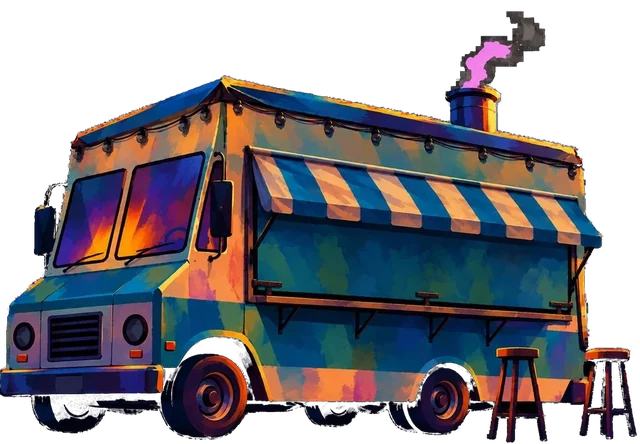
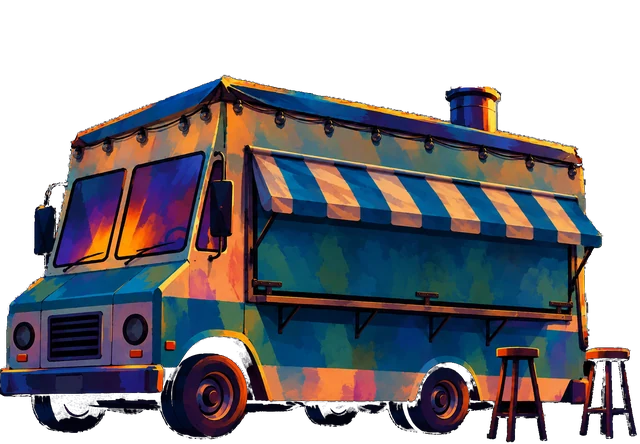
Bloomscroll: smaller truck set further back, market in its daytime spot, oven fire
The food truck moves back behind the concert crowd and scales to that
depth in both modes. At night the market stays in its daytime spot,
and its lights and the van's lights are drawn at the prop's own depth,
so hidden bulbs no longer glow through the stage or the tents. The
queue stands at the van's hatch at the van's depth. The closed truck
loses its smoke, and the pizza oven gets a small flickering fire with
rising embers.

diff --git a/components/feed/BloomscrollScene.js b/components/feed/BloomscrollScene.js
@@ -65,12 +65,12 @@ const PROP_LIGHTS = {
   },
   van: {
     bulbs: [[0.06,0.219],[0.114,0.242],[0.172,0.254],[0.226,0.254],[0.263,0.249],[0.323,0.235],[0.389,0.209],[0.457,0.176]],
-    lamps: [[0.26,0.445]], fires: [[0.44,0.5]],
+    lamps: [[0.26,0.445]], fires: [[0.452,0.52]], ovens: [[0.452,0.565,0.095]],
   },
 }
 const SUN_AT = { wide: [0.5395, 0.5715, 0.07], phone: [0.56, 0.72, 0.186] }
 const SUNSET_HAZE = 0.35
-const PROP_GLOW = { bulb: 0.3, lamp: 0.6, fire: 0.75 }
+const PROP_GLOW = { bulb: 0.3, lamp: 0.6, fire: 0.75, pad: 0.4 }
 
 const LIFE = {
   phone: {
@@ -191,15 +191,71 @@ export default function BloomscrollScene({ children, flowers = "normal", colour 
       })
     }
 
-    const propBox = new Map()
+    const propGlows = [...root.querySelectorAll("[data-glow]")].map((cv) => ({ cv, ctx: cv.getContext("2d"), el: props.find((el) => el.dataset.prop === cv.dataset.glow), box: null }))
     function measureProps() {
-      propBox.clear()
-      const bw = backdrop.clientWidth, bh = backdrop.clientHeight
-      props.forEach((el) => {
-        if (!PROP_LIGHTS[el.dataset.prop] || !el.hasAttribute("data-on") || !el.offsetWidth) return
-        const shift = parseFloat(el.style.translate) || 0
-        propBox.set(el.dataset.prop, { u: (el.offsetLeft - el.offsetWidth / 2 + shift) / bw, v: el.offsetTop / bh, uw: el.offsetWidth / bw, vh: el.offsetHeight / bh })
+      const dpr = Math.min(devicePixelRatio || 1, 2)
+      propGlows.forEach((g) => {
+        const { cv, el } = g, on = el.hasAttribute("data-on") && el.offsetWidth > 0
+        cv.toggleAttribute("data-on", on)
+        g.box = null
+        if (!on) return
+        const w = el.offsetWidth, h = el.offsetHeight, pad = h * PROP_GLOW.pad
+        const left = el.offsetLeft - w / 2 + (parseFloat(el.style.translate) || 0) - pad, top = el.offsetTop - pad
+        Object.assign(cv.style, { left: left + "px", top: top + "px", width: w + pad * 2 + "px", height: h + pad * 2 + "px" })
+        cv.width = Math.round((w + pad * 2) * dpr)
+        cv.height = Math.round((h + pad * 2) * dpr)
+        g.box = { x: pad * dpr, y: pad * dpr, w: w * dpr, h: h * dpr }
       })
+    }
+
+    const ovenEmbers = []
+    let ovenLast = 0
+    function drawOven(c, x, base, mw, t, dt, appear) {
+      const fR = mw * 0.32
+      for (const [k, [off, hgt, wid]] of [[0, 1.6, 0.55], [-0.45, 1.1, 0.36], [0.45, 1.15, 0.36]].entries()) {
+        const sway = Math.sin(t / (160 + k * 37) + k) * fR * 0.2 + Math.sin(t / 67 + k * 3) * fR * 0.07
+        const h = fR * hgt * (0.8 + 0.2 * Math.sin(t / (85 + k * 23) + k * 1.3)), w = fR * wid, bx = x + off * fR
+        const g = c.createLinearGradient(bx, base, bx, base - h)
+        flameStops.forEach(([at, colour]) => g.addColorStop(at, colour))
+        c.globalAlpha = 0.55 * appear
+        c.fillStyle = g
+        c.beginPath()
+        c.moveTo(bx - w, base)
+        c.bezierCurveTo(bx - w * 1.1, base - h * 0.45, bx + sway - w * 0.4, base - h * 0.7, bx + sway, base - h)
+        c.bezierCurveTo(bx + sway + w * 0.4, base - h * 0.7, bx + w * 1.1, base - h * 0.45, bx + w, base)
+        c.closePath()
+        c.fill()
+      }
+      if (Math.random() < dt * 7) ovenEmbers.push({ x: x + (Math.random() - 0.5) * mw * 0.6, y: base - mw * 0.05, vx: (Math.random() - 0.5) * mw * 0.15, vy: -mw * (0.3 + Math.random() * 0.25), life: 1 })
+      for (let i = ovenEmbers.length - 1; i >= 0; i--) {
+        const e = ovenEmbers[i]
+        e.x += (e.vx + Math.sin(t / 240 + i) * mw * 0.08) * dt
+        e.y += e.vy * dt
+        e.life -= dt * 0.9
+        if (e.life <= 0) { ovenEmbers.splice(i, 1); continue }
+        c.globalAlpha = e.life * appear
+        const size = mw * 0.14
+        c.drawImage(warmSprite, e.x - size / 2, e.y - size / 2, size, size)
+      }
+    }
+
+    function drawPropGlows(t, appear) {
+      const dt = Math.min(64, t - (ovenLast || t)) / 1000
+      ovenLast = t
+      for (const { ctx: c, cv, box: r, el } of propGlows) {
+        if (!r) continue
+        c.clearRect(0, 0, cv.width, cv.height)
+        if (reduced.matches || appear <= 0) continue
+        const P = PROP_LIGHTS[el.dataset.prop], px = (fx) => r.x + fx * r.w, py = (fy) => r.y + fy * r.h
+        const sprite = (x, y, size, alpha) => { c.globalAlpha = Math.max(0, Math.min(1, alpha)) * appear; c.drawImage(warmSprite, x - size / 2, y - size / 2, size, size) }
+        c.globalCompositeOperation = "lighter"
+        P.bulbs.forEach(([fx, fy], i) => sprite(px(fx), py(fy), r.h * PROP_GLOW.bulb, 0.25 + 0.75 * Math.pow(0.5 + 0.5 * Math.sin(t / 380 - fx * 30 + (i % 3) * 2.1), 2)))
+        P.lamps.forEach(([fx, fy], i) => sprite(px(fx), py(fy), r.h * PROP_GLOW.lamp, 0.5 + 0.12 * Math.sin(t / 900 + i * 1.7)))
+        P.fires.forEach(([fx, fy], i) => sprite(px(fx), py(fy), r.h * PROP_GLOW.fire, 0.55 + 0.2 * Math.sin(t / 83 + i) * Math.sin(t / 211 + i)))
+        P.ovens?.forEach(([fx, fy, fw]) => drawOven(c, px(fx), py(fy), fw * r.w, t, dt, appear))
+        c.globalCompositeOperation = "source-over"
+        c.globalAlpha = 1
+      }
     }
     props.forEach((el) => el.addEventListener("load", measureProps))
 
@@ -642,14 +698,6 @@ export default function BloomscrollScene({ children, flowers = "normal", colour 
         const [x, y] = at(e.x, e.y)
         sprite(x, y, unit * (e.big ? 0.014 : 0.01), e.life)
       }
-      for (const [name, P] of Object.entries(PROP_LIGHTS)) {
-        const r = propBox.get(name)
-        if (!r) continue
-        const px = (fx) => (r.u + fx * r.uw) * cw, py = (fy) => (r.v + fy * r.vh) * ch, size = r.vh * ch
-        P.bulbs.forEach(([fx, fy], i) => sprite(px(fx), py(fy), size * PROP_GLOW.bulb, 0.25 + 0.75 * Math.pow(0.5 + 0.5 * Math.sin(t / 380 - fx * 30 + (i % 3) * 2.1), 2)))
-        P.lamps.forEach(([fx, fy], i) => sprite(px(fx), py(fy), size * PROP_GLOW.lamp, 0.5 + 0.12 * Math.sin(t / 900 + i * 1.7)))
-        P.fires.forEach(([fx, fy], i) => sprite(px(fx), py(fy), size * PROP_GLOW.fire, 0.55 + 0.2 * Math.sin(t / 83 + i) * Math.sin(t / 211 + i)))
-      }
       L.hoops.forEach(([u, v, r], hi) => {
         const [x, y] = at(u, v)
         for (let k = 0; k < 4; k++) {
@@ -780,6 +828,7 @@ export default function BloomscrollScene({ children, flowers = "normal", colour 
       if (!sunset) {
         drawFlies(now, dt, y, mx, smoothstep(1700, 2500, since))
         drawLife(now, dt, smoothstep(1500, 2100, since))
+        drawPropGlows(now, smoothstep(1500, 2100, since))
       }
       drawWheel(still ? 0 : now, 1)
       if (!sunset) drawCrowd(now)
@@ -1059,8 +1108,10 @@ export default function BloomscrollScene({ children, flowers = "normal", colour 
               <canvas data-part="wheel" />
               <div className="tag-bs__prop tag-bs__prop--shadow" data-prop="shadow" data-shift="l" />
               <img className="tag-bs__prop tag-bs__prop--market" data-prop="market" data-shift="l" alt="" />
+              <canvas className="tag-bs__prop-glow" data-glow="market" />
               <img className="tag-bs__half-l" data-fest="fest" data-half="l" alt="" width={1584} height={672} />
               <img className="tag-bs__prop tag-bs__prop--van" data-prop="van" data-shift="r" alt="" />
+              <canvas className="tag-bs__prop-glow" data-glow="van" />
               <img className="tag-bs__prop tag-bs__prop--queue" data-prop="queue" data-shift="r" alt="" />
               <img className="tag-bs__half-r" data-fest="fest" data-half="r" data-side="right" alt="" width={1584} height={672} />
               <img className="tag-bs__prop tag-bs__prop--truck" data-prop="truck" data-shift="l" alt="" />

diff --git a/styles/pages/bloomscroll.css b/styles/pages/bloomscroll.css
@@ -371,21 +371,27 @@
   }
 
   .tag-bs__layer > .tag-bs__prop--queue {
-    left: 52.5%;
-    bottom: 24.5%;
-    height: 10.6%;
+    left: 51.5%;
+    bottom: 25.5%;
+    height: 9.06%;
   }
 
-  .tag-bloomscroll[data-sky="night"] .tag-bs:not(.tag-bs--phone) .tag-bs__layer > .tag-bs__prop--market {
-    left: 47%;
-    bottom: 26.5%;
-    height: 15.2%;
+  .tag-bs__layer > .tag-bs__prop-glow {
+    position: absolute;
+    inset: auto;
+    display: none;
+    mix-blend-mode: screen;
+    pointer-events: none;
+  }
+
+  .tag-bloomscroll[data-sky="night"] .tag-bs__layer > .tag-bs__prop-glow[data-on] {
+    display: block;
   }
 
   .tag-bs__layer > .tag-bs__prop--truck {
-    left: 37%;
-    bottom: 22.5%;
-    height: 25.36%;
+    left: 39.5%;
+    bottom: 24.5%;
+    height: 20.53%;
   }
 
   .tag-bs__layer > .tag-bs__prop--walkers {
